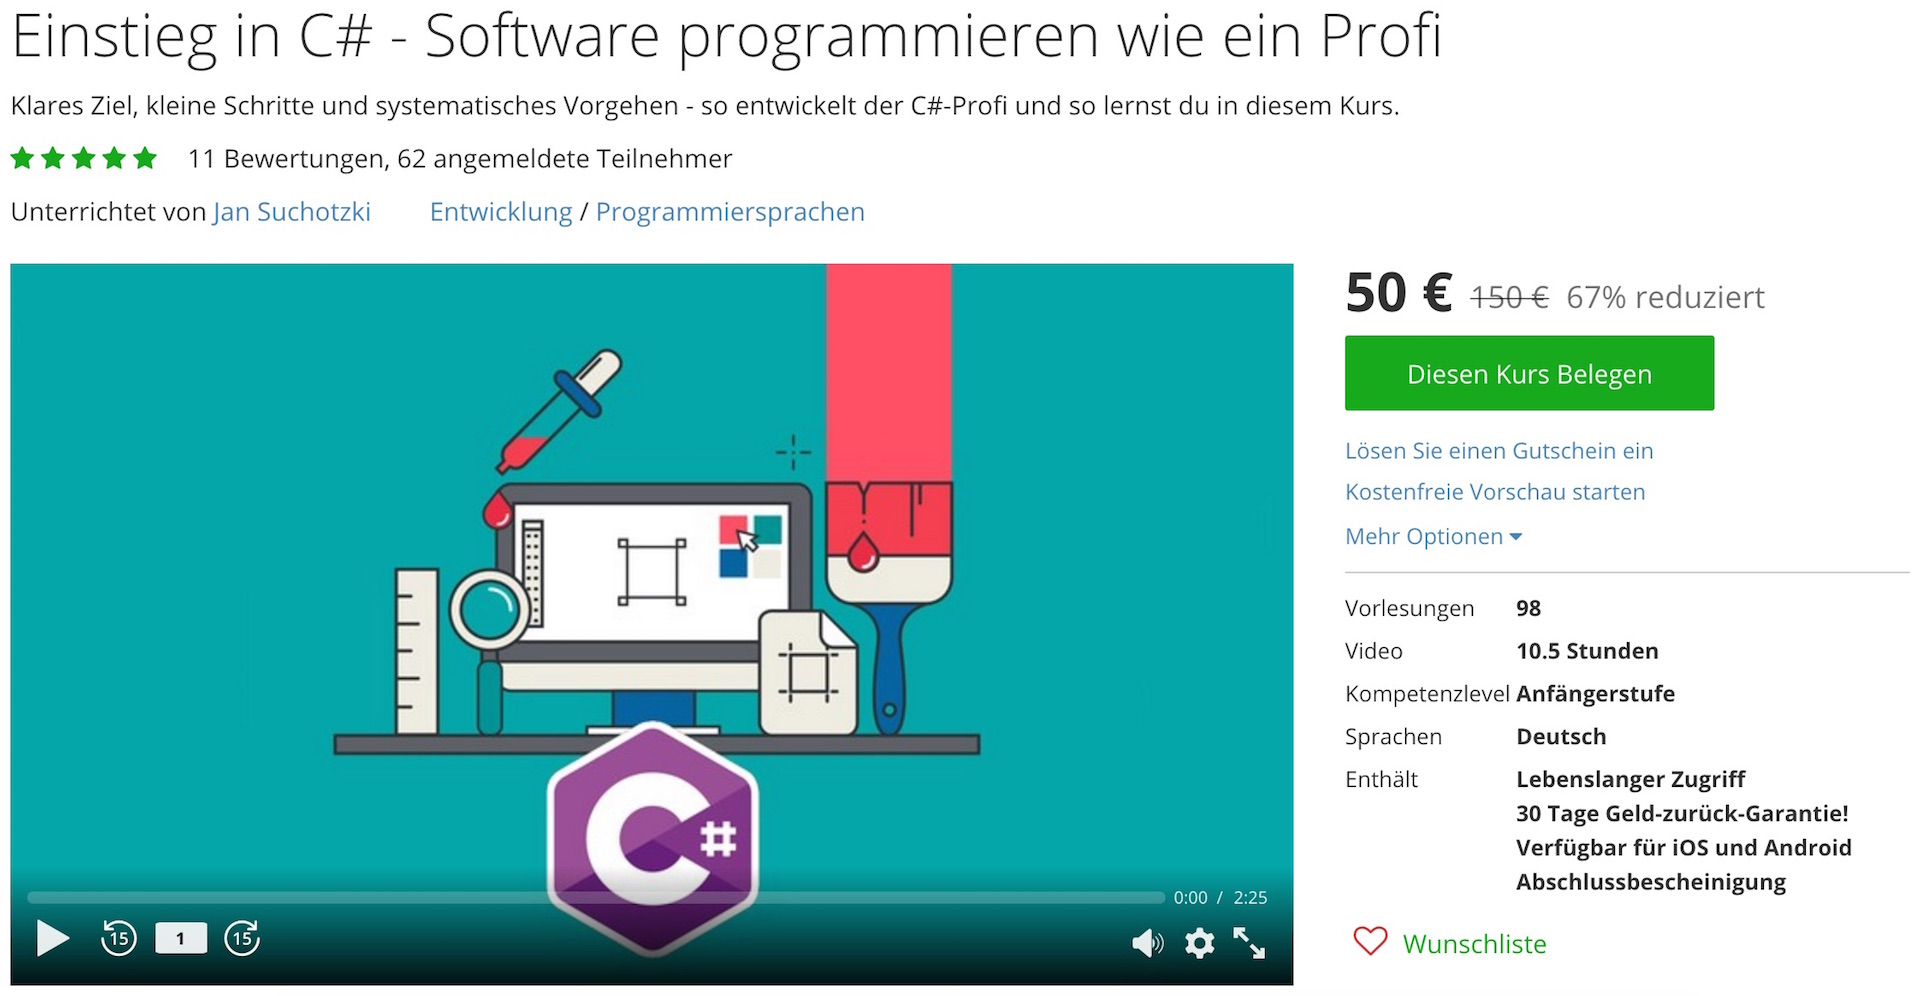
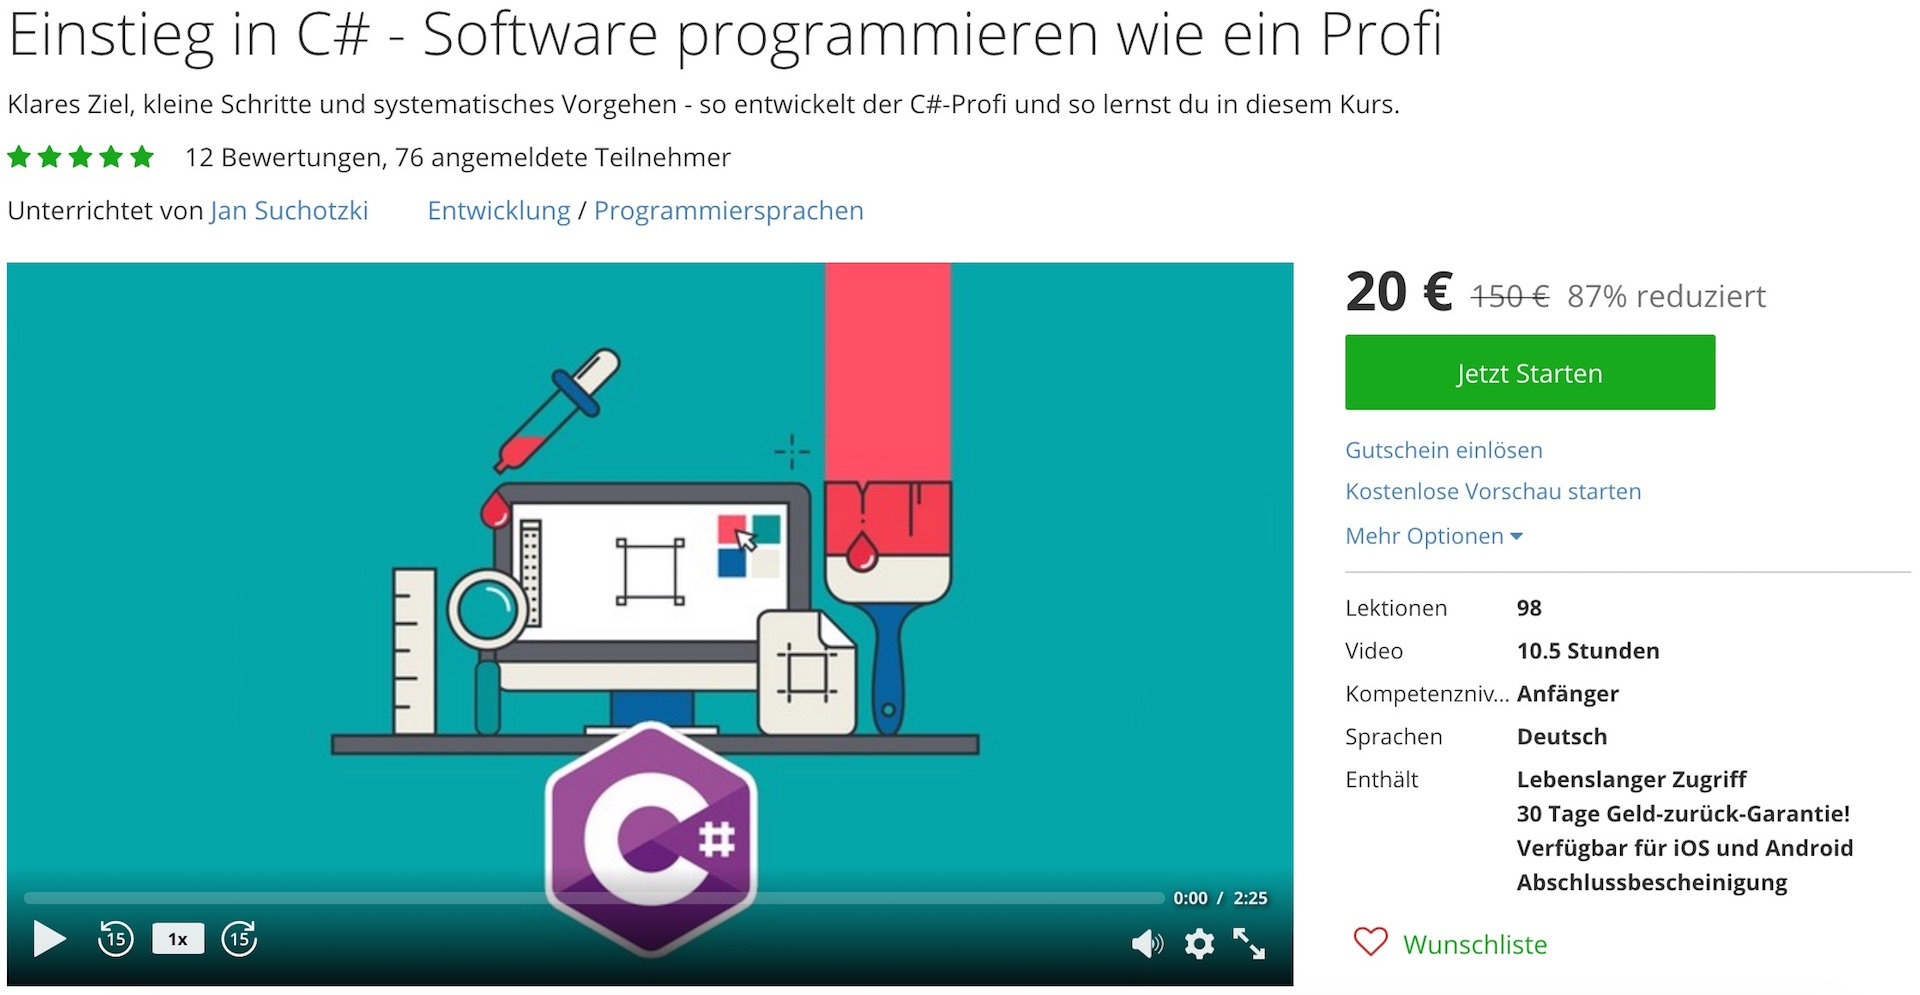
Verwendet neuen Gutschein um nicht teurer als bei Udemy zu sein.

diff --git a/einstieg-csharp/index.md b/einstieg-csharp/index.md
@@ -14,7 +14,7 @@ Mit diesem Kurs hast du in 30 Minuten deine erste C#-Anwendung entwickelt. Viel 
 
 Alles Wissenswerte zum Kurs bekommst du, wenn du auf das folgende Bild klickst. Für dich als Leser meines Blogs gibt es auch einen Rabatt. Weiter unten findest du (kostenloses) Bonusmaterial zum Kurs. 
 <figure>
-	<a href="https://www.udemy.com/einstieg-in-csharp-software-programmieren-wie-ein-profi/?couponCode=LM2016_UCsK" target="_blank"><img src="/images/UCsK_LandingPage_Rabatt_Gross.jpg" alt="image"></a>
+	<a href="https://www.udemy.com/einstieg-in-csharp-software-programmieren-wie-ein-profi/?couponCode=LM2016_UCsK20" target="_blank"><img src="/images/UCsK_LandingPage_Rabatt_Gross.jpg" alt="image"></a>
 </figure>
 
 ## Details und weitere Ressourcen zum Kurs
